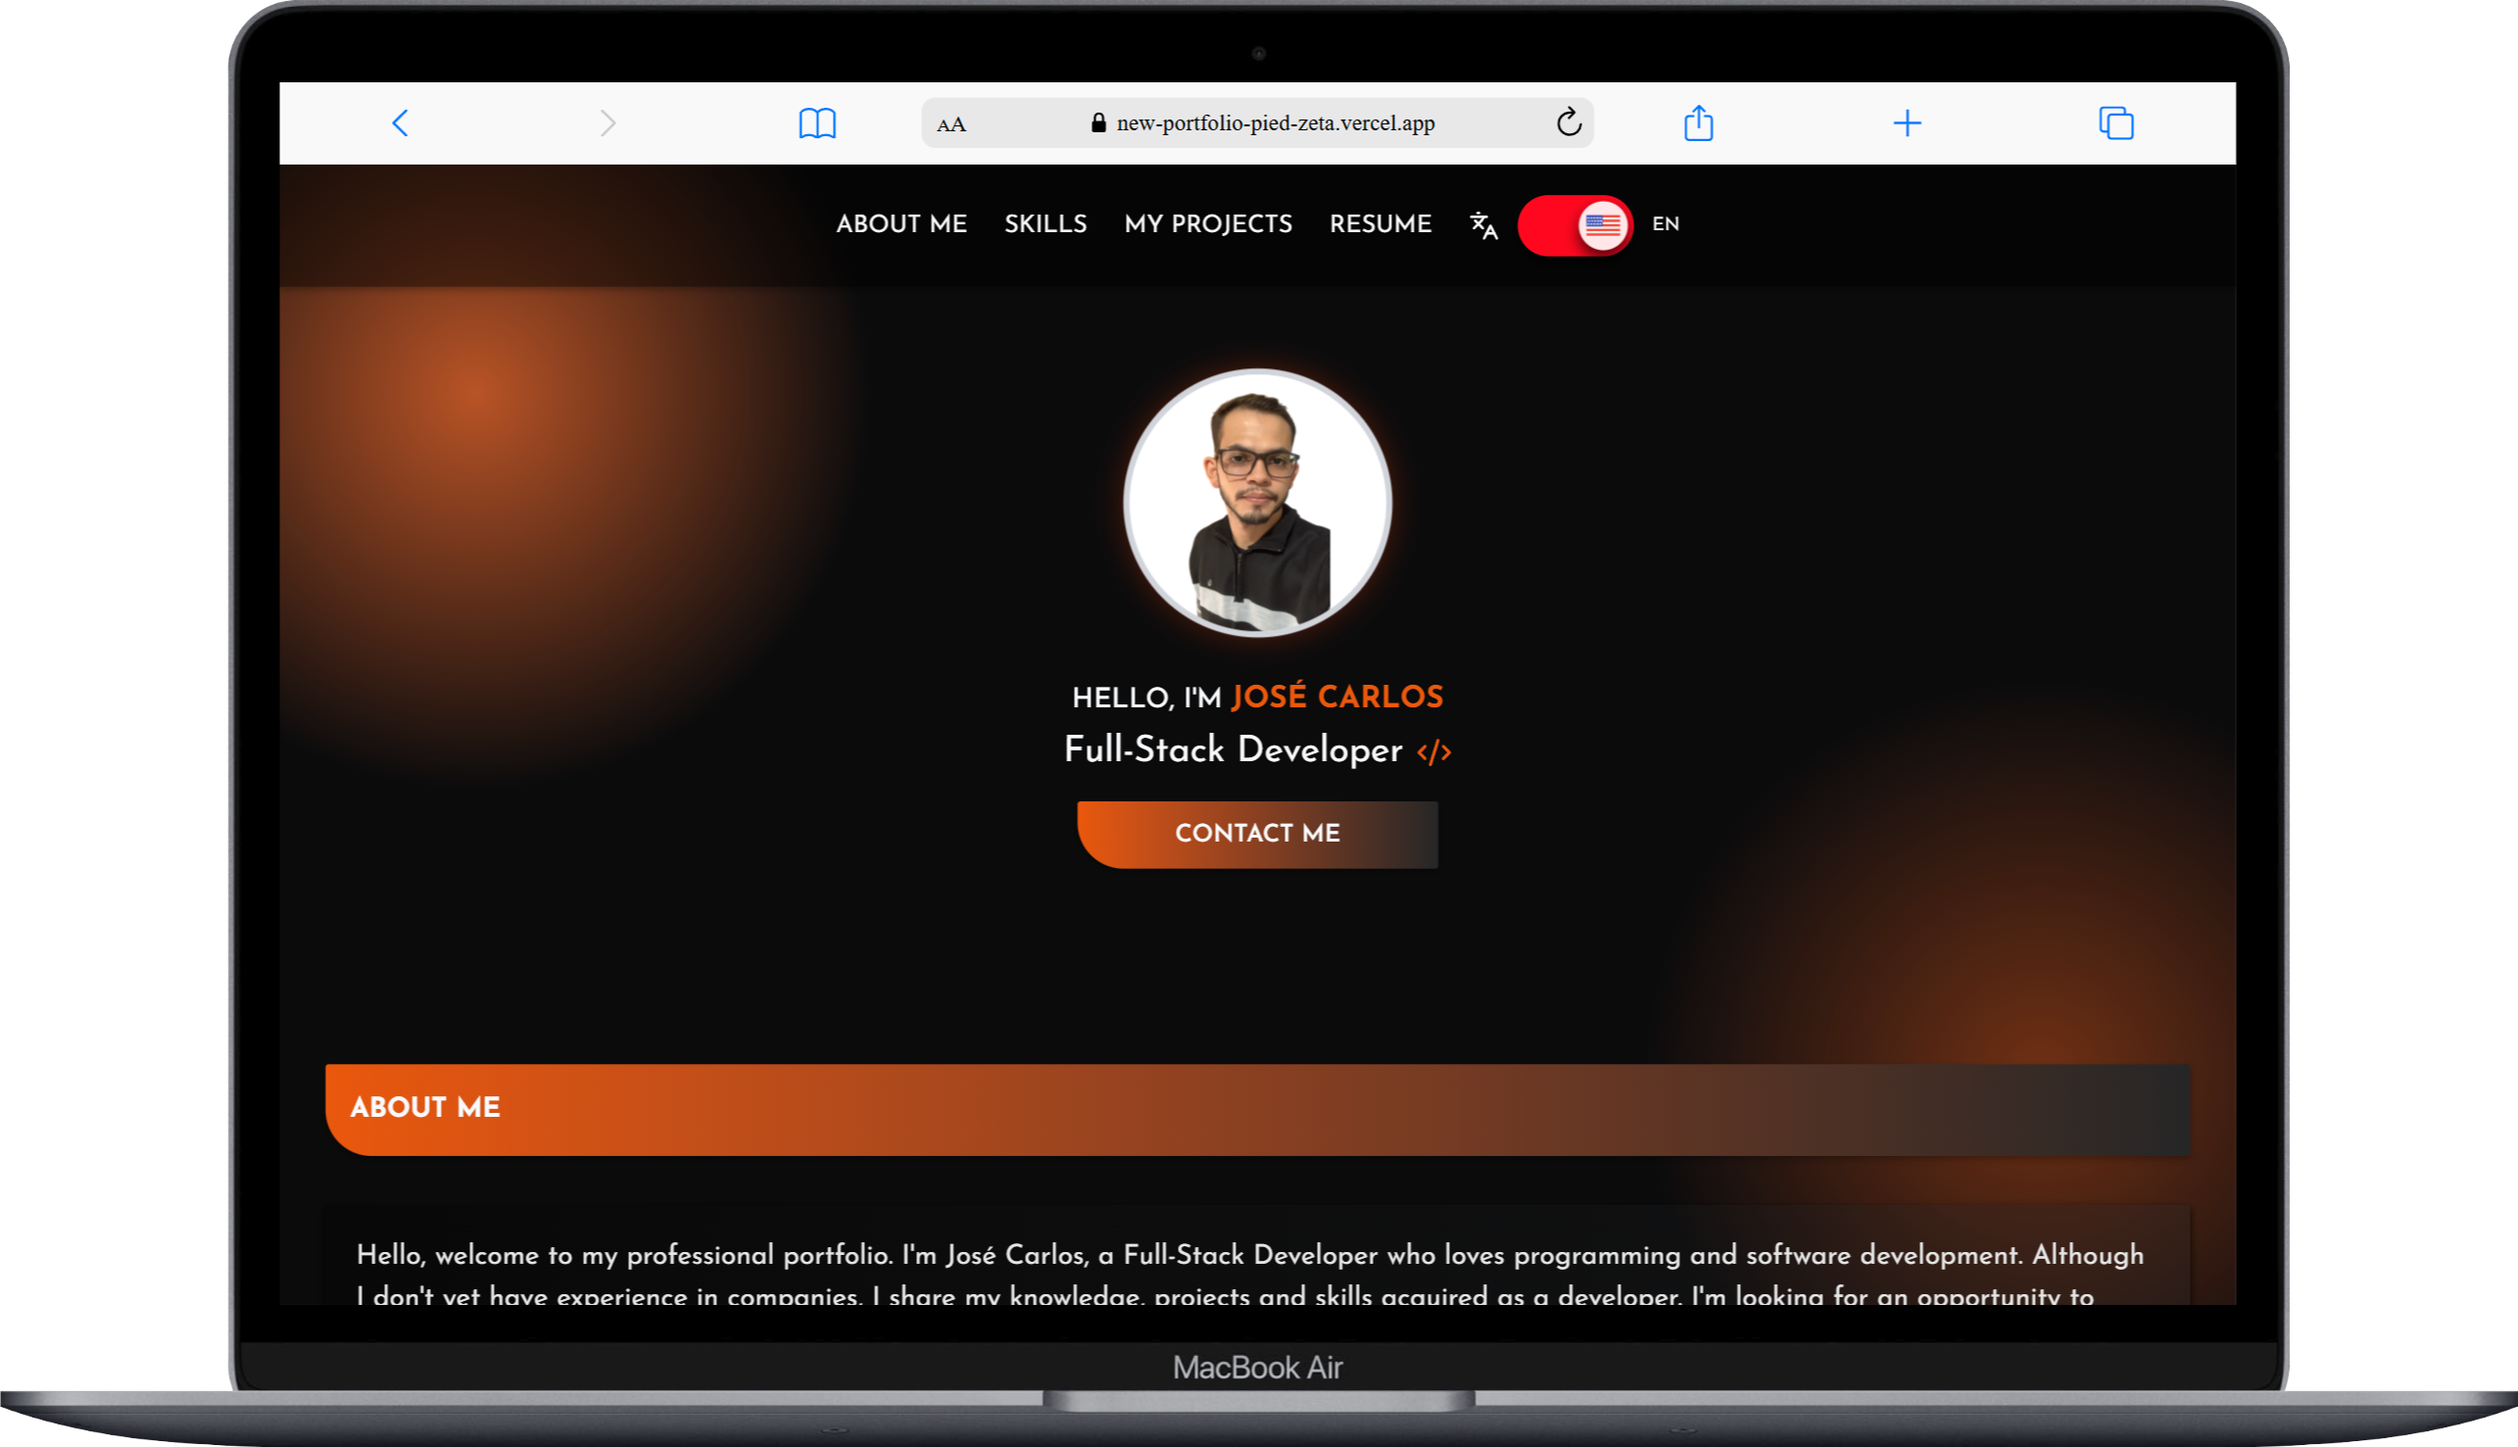
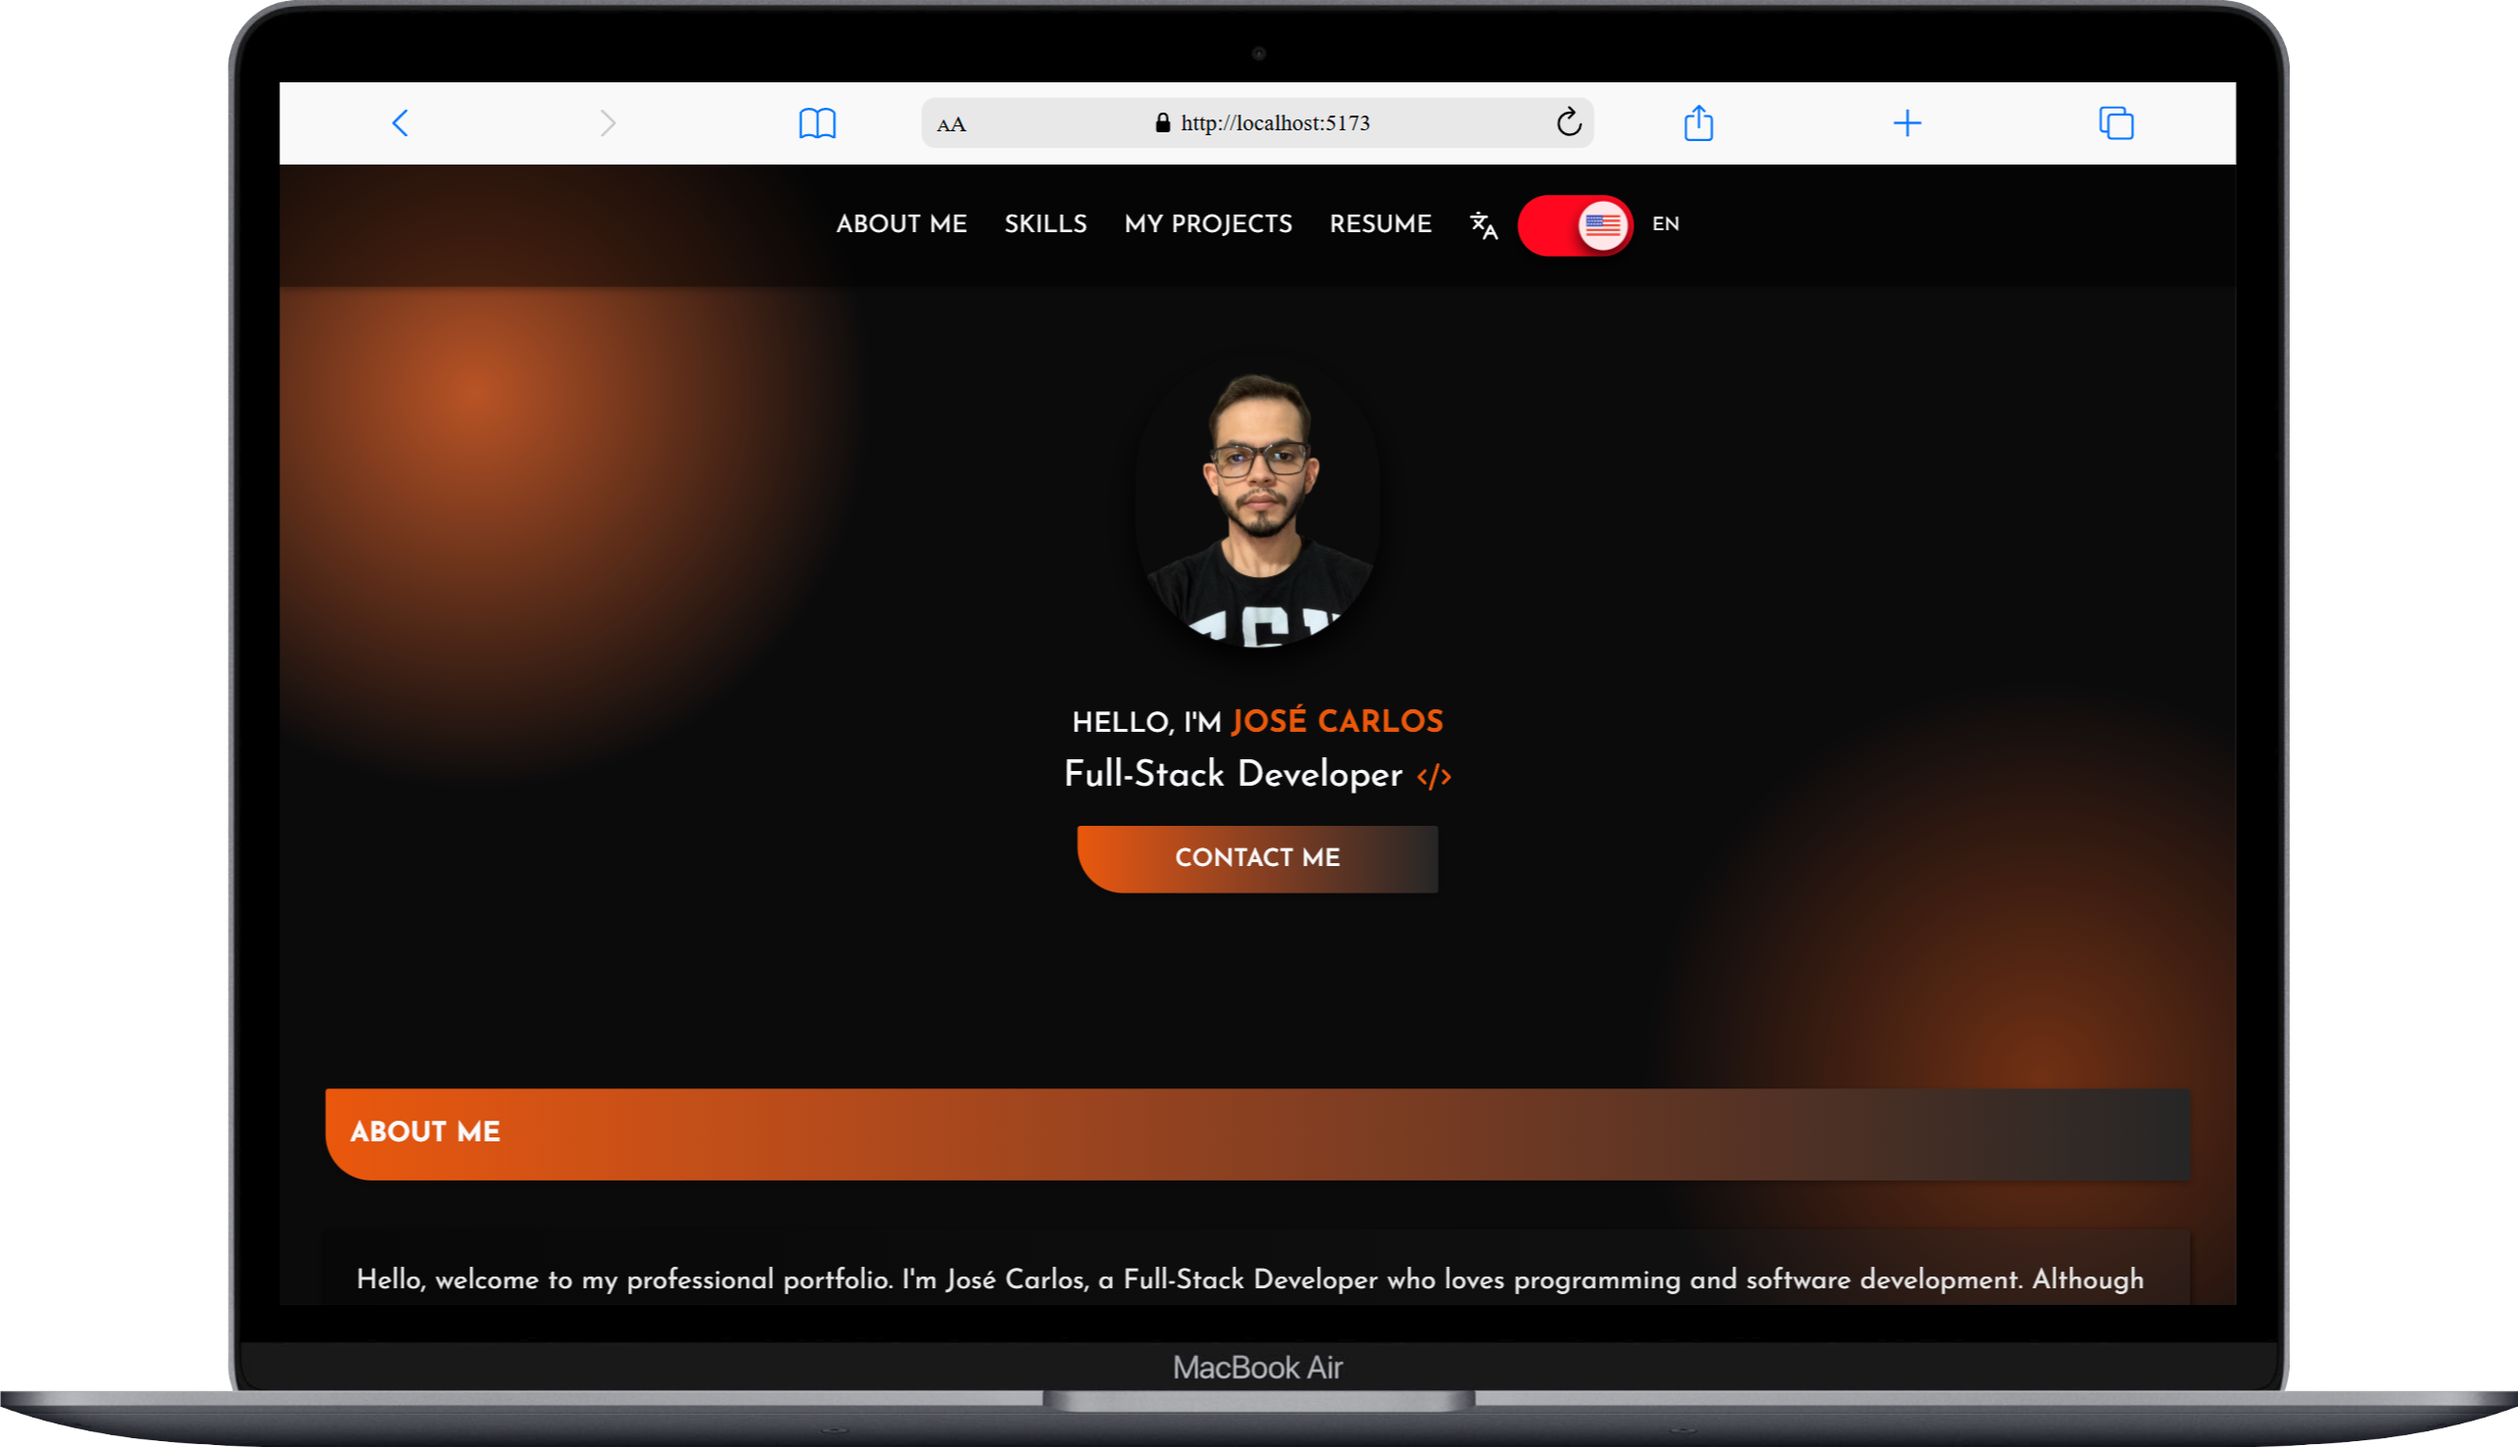
Update

Changed region(s): [[0.1245, 0.7163, 0.8716, 0.9032], [0.4047, 0.2492, 0.5914, 0.6229], [0.4358, 0.0623, 0.5603, 0.0934]]

diff --git a/src/Components/Sections/Header.jsx b/src/Components/Sections/Header.jsx
@@ -1,4 +1,4 @@
-import { useState } from "react";
+import { useState, useEffect } from "react";
 import { Languages } from "lucide-react";
 import FlagLanguageBrazil from "../../assets/languages-flags/portuguese-brazil.png";
 import FlagLanguageEnglish from "../../assets/languages-flags/english.png";
@@ -7,6 +7,16 @@ import { useI18n } from "../../i18n";
 export default function Header() {
   const {language, translate, setLanguage} = useI18n();
   const [isMenuOpen, setIsMenuOpen] = useState(false);
+  const [isHeaderFixed, setIsHeaderFixed] = useState(false);
+
+  const handleScroll = () => {
+    setIsHeaderFixed(window.scrollY > 50);
+  };
+  
+  useEffect(() => {
+    window.addEventListener('scroll', handleScroll);
+    return () => window.removeEventListener('scroll', handleScroll);
+  }, []);
 
   const toggleMenu = () => {
     setIsMenuOpen((prev) => !prev);
@@ -47,11 +57,13 @@ export default function Header() {
   ]
 
   return (
-    <header className={`flex w-full justify-center items-center bg-black/50 shadow-[0_2px_5px_rgba(0,0,0,0.3)] text-gray-50 relative transition-all duration-300 ${isMenuOpen ? "h-screen" : "h-20"}`}>
-      <nav className="">
+    <header className={`rounded-[2px] flex w-full h-14 lg:h-20 justify-center items-center z-10 shadow-[0_2px_5px_rgba(0,0,0,0.3)] text-gray-50 transition-all duration-300
+      ${isMenuOpen ? "h-screen bg-black" : ""}
+      ${isHeaderFixed ? "fixed top-0 bg-black/90 w-[calc(100%-2rem)] m-4" : "relative bg-black/50"}`}>
+      <nav>
         <button
           onClick={toggleMenu}
-          className={`absolute sm:hidden z-50 top-8 right-8 flex flex-col justify-center items-center transition-all duration-300 ease-in-out
+          className={`absolute sm:hidden z-50 top-5 right-4 flex flex-col justify-center items-center transition-all duration-300 ease-in-out
             ${isMenuOpen ? "gap-[4px]" : "gap-[6px]"}`}
           aria-label="Menu"
         >

diff --git a/src/Components/Sections/Home.jsx b/src/Components/Sections/Home.jsx
@@ -1,4 +1,4 @@
-import logoPerfil from '../../assets/profile/jose-carlos.png';
+import logoPerfil from '../../assets/profile/logo.png';
 import { CodeXml } from 'lucide-react';
 import { useI18n } from "../../i18n";
 
@@ -7,11 +7,13 @@ function Home() {
 
   return (
     <section className="flex justify-center items-center flex-col mt-16 mb-32">
-      <img
-        src={logoPerfil}
-        alt=""
-        className="w-44 h-44 rounded-full object-contain border-[4px] bg-white border-solid border-gray-300 shadow-[0_0_20px_rgba(255,68,0,0.3)] animate-[profile-float_5s_ease-in-out_infinite]"
-      />
+      <div className="w-40 h-48 overflow-hidden rounded-full shadow-[0_10px_20px_rgba(0,0,0,1)] animate-[profile-float_5s_ease-in-out_infinite]">
+        <img
+          src={logoPerfil}
+          alt="Foto de perfil"
+          className="w-full h-full object-cover object-top"
+        />
+      </div>
       <h1 className="text-lg font-medium text-gray-50 mt-4 mb-1 uppercase">
         {translate("home.greeting")} <span className='font-bold text-orange-600 text-xl'>{translate("home.developer")}</span>
       </h1>
